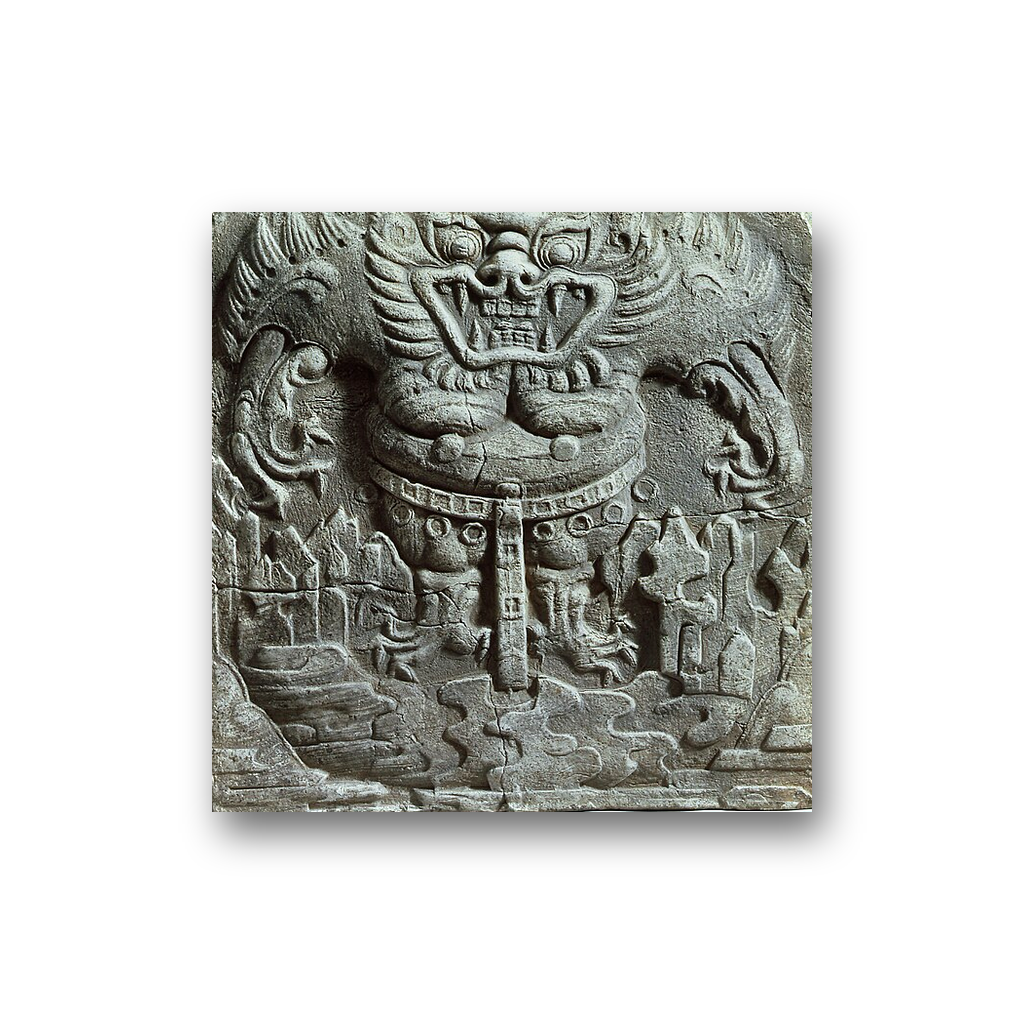
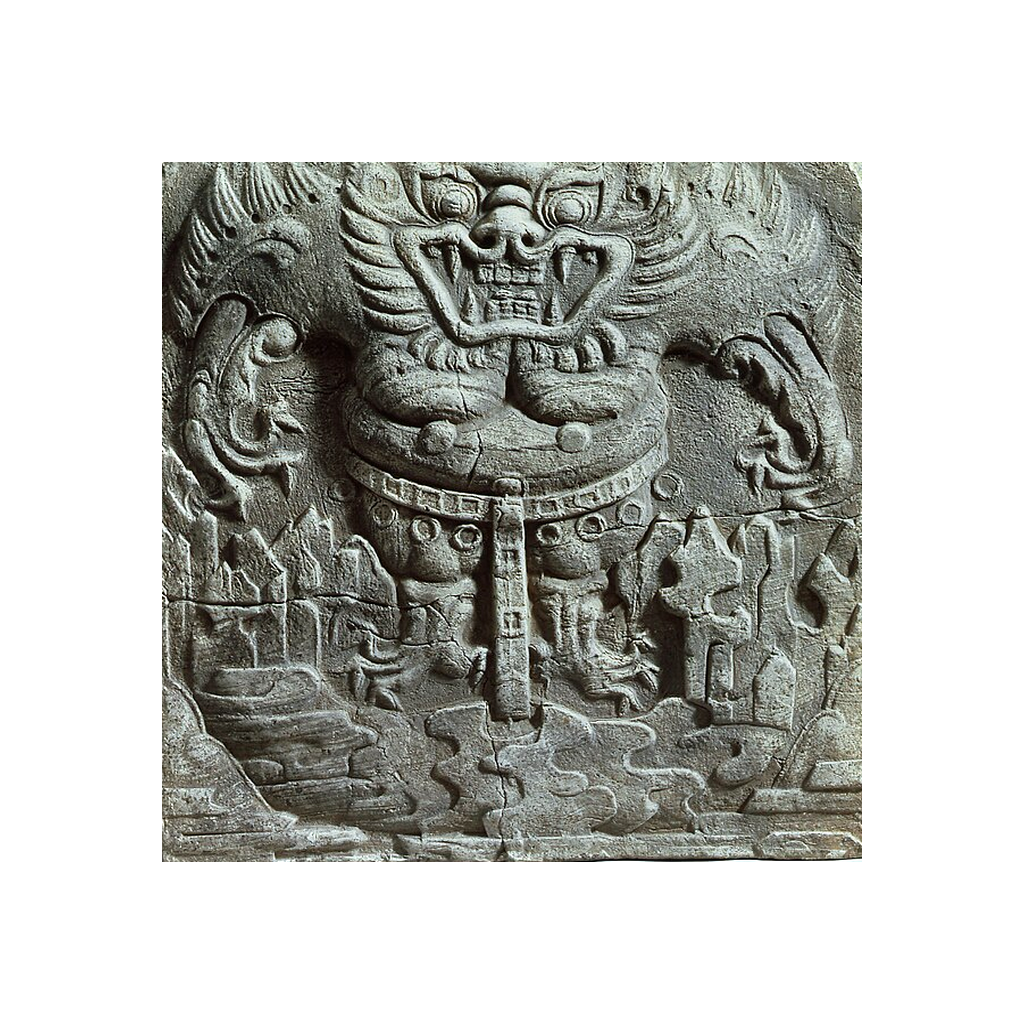
아이콘을 벽돌 사진이 꽉 차게(구글 플레이·휴대폰), 방망이 세 번 두드리는 화면도 벽돌 사진 크게 + 나무 방망이로
Claude-Session: https://claude.ai/code/session_0119NABoGFoS9fwAJJmie3D3

diff --git a/www/css/extra.css b/www/css/extra.css
@@ -153,9 +153,9 @@ body:not(.pro) .bnav button[data-v=il]{display:none!important}
 #ttak.on{opacity:1}
 .tkIn{position:relative;text-align:center;color:#fff;padding:20px;width:100%;max-width:400px}
 .tkH{font-size:24px;margin:0 0 14px}.tkH b{color:#ffd34d}
-.tkBtn{position:relative;width:230px;height:230px;border-radius:50%;background:radial-gradient(circle,#ffe9a8,#ffb347 60%,#ff7a45);border:6px solid #fff3c4;box-shadow:0 0 40px rgba(255,200,80,.6);padding:0;margin:0 auto;display:block}
-.tkDk{width:130px;height:130px;position:absolute;left:28px;top:50px;border-radius:26px}.bangSvg{position:absolute;right:22px;top:26px;width:62px;height:150px;transform:rotate(28deg);transform-origin:50% 90%}
-.tkBtn.swing .bangSvg{animation:bang .3s ease}@keyframes bang{0%{transform:rotate(28deg)}40%{transform:rotate(-40deg)}100%{transform:rotate(28deg)}}
+.tkBtn{position:relative;width:250px;height:250px;border-radius:18px;background:#2a2320;border:3px solid #8a7a5c;box-shadow:0 0 0 6px rgba(138,122,92,.25),0 18px 40px rgba(0,0,0,.7),0 0 60px rgba(255,214,120,.18);padding:0;margin:0 auto;display:block;overflow:visible}
+.tkDk{width:100%;height:100%;position:absolute;left:0;top:0;border-radius:15px;object-fit:cover;filter:contrast(1.05)}.bangSvg{position:absolute;right:-18px;top:-62px;width:70px;height:175px;transform:rotate(30deg);transform-origin:50% 92%;filter:drop-shadow(0 8px 10px rgba(0,0,0,.6))}
+.tkBtn.swing .bangSvg{animation:bang .3s ease}@keyframes bang{0%{transform:rotate(30deg)}40%{transform:rotate(-35deg)}100%{transform:rotate(30deg)}}
 .tkDots{display:flex;gap:12px;justify-content:center;margin:18px 0 6px}.tkDots i{width:18px;height:18px;border-radius:50%;background:rgba(255,255,255,.3)}.tkDots i.on{background:#ffd34d;box-shadow:0 0 10px #ffd34d}
 .tkSay{font-size:26px;font-weight:800;color:#ffd34d;margin:6px 0 16px}
 .tkSkip{background:transparent!important;color:#ddd!important;box-shadow:none!important;border:0;font-size:15px;text-decoration:underline}
@@ -253,3 +253,6 @@ body.jiOpen{overflow:hidden}body.jiOpen #homeBtn,body.jiOpen .bnav{display:none!
 .calP{margin:4px 0 10px}.calBtn{display:inline-block;padding:10px 14px;border-radius:12px;background:#e8f0ff;color:#2a4fb8;font-weight:800;text-decoration:none;font-size:16px}
 .jobL{padding:10px 12px;border-radius:12px;background:#f4f0ff;margin:6px 0!important}.jobL b{color:var(--purple)}
 .mrW{margin:10px 0;padding:12px 14px;border-radius:14px;background:#f4f0ff}.mrW p{margin:6px 0!important}
+
+.tkBtn.swing{animation:tkShake .3s ease}@keyframes tkShake{0%,100%{transform:none}35%{transform:translate(2px,3px) scale(.985)}}
+#ttak.done .tkBtn{box-shadow:0 0 0 6px rgba(255,214,120,.5),0 0 80px rgba(255,214,120,.55)}

diff --git a/www/js/05-app.js b/www/js/05-app.js
@@ -2521,7 +2521,7 @@ const ttak=(()=>{let ac=null;const A=()=>{try{ac=ac||new (window.AudioContext||w
   const buzz=ms=>{try{navigator.vibrate&&navigator.vibrate(ms);}catch(e){}};
   const hit=()=>{tone(150,0,0.18,'sine',0.7);tone(900,0,0.05,'square',0.08);buzz(40);};
   const chime=()=>{[784,988,1175,1568].forEach((f,i)=>tone(f,i*0.09,0.35,'triangle',0.18));buzz([30,40,30]);};
-  const BANG='<svg viewBox="0 0 70 170" class="bangSvg" aria-hidden="true"><rect x="29" y="104" width="12" height="62" rx="6" fill="#7a4a1f"/><path d="M14 26 Q35 -2 56 26 L50 108 Q35 118 20 108Z" fill="#c0702e" stroke="#5a3210" stroke-width="4"/><g fill="#ffd34d" stroke="#8a5a10" stroke-width="2"><circle cx="26" cy="40" r="6"/><circle cx="44" cy="40" r="6"/><circle cx="35" cy="62" r="6"/><circle cx="25" cy="84" r="5"/><circle cx="45" cy="84" r="5"/></g></svg>';
+  const BANG='<svg viewBox="0 0 80 200" class="bangSvg" aria-hidden="true"><defs><linearGradient id="bw" x1="0" x2="1"><stop offset="0" stop-color="#3a2414"/><stop offset=".45" stop-color="#7a5232"/><stop offset="1" stop-color="#2e1b0e"/></linearGradient><radialGradient id="bi" cx="35%" cy="30%"><stop offset="0" stop-color="#cfcabf"/><stop offset="1" stop-color="#4a463f"/></radialGradient></defs><rect x="33" y="118" width="14" height="78" rx="6" fill="url(#bw)"/><path d="M33 128 h14 M33 140 h14" stroke="#1d120a" stroke-width="3"/><path d="M14 34 Q40 -4 66 34 L58 124 Q40 134 22 124 Z" fill="url(#bw)" stroke="#1d120a" stroke-width="3"/><path d="M28 40 Q32 80 30 118 M50 40 Q47 80 50 118" stroke="#2a180b" stroke-width="1.5" fill="none" opacity=".6"/><g fill="url(#bi)" stroke="#2b2824" stroke-width="1.5"><circle cx="30" cy="48" r="6"/><circle cx="50" cy="48" r="6"/><circle cx="40" cy="72" r="6"/><circle cx="28" cy="96" r="5.5"/><circle cx="52" cy="96" r="5.5"/><circle cx="40" cy="116" r="5"/></g></svg>';
   let ov=null,n=0,lastKey='';
   function open(){if(ov)ov.remove();n=0;ov=document.createElement('div');ov.id='ttak';
     ov.innerHTML='<div class="tkIn"><p class="tkH">방망이를 <b>세 번</b> 두드리게!</p><button type="button" class="tkBtn" aria-label="방망이 두드리기"><img src="img/dokkaebi.jpg" alt="" class="tkDk">'+BANG+'</button><p class="tkDots"><i></i><i></i><i></i></p><p class="tkSay">금 나와라 뚝딱!</p><button type="button" class="tkSkip">건너뛰기</button></div>';

diff --git a/CLAUDE.md b/CLAUDE.md
@@ -4,7 +4,7 @@
 
 ## 구조
 - `www/index.html` 화면 뼈대, `www/css/app.css` 스타일, `www/css/extra.css` 새 화면 조각(첫 화면 카드·그림·방망이 달·큰 시간 글씨)을 처음 분홍·보라 스타일에 맞춘 것, `www/fonts/` 프리텐다드 글꼴(SIL OFL, 앱에 넣어 둠 — 전체 글씨는 이 글꼴, 한자 칸만 명조), `www/img/art/` 김홍도 풍속화 삽화(공공 저작물, `ART`/`artFig` in 05-app.js)
-- 도깨비 그림·앱 아이콘: 백제 「부여 외리 문양전」 산수귀문전(도깨비무늬 벽돌) 실물 사진(국립중앙박물관, 공공누리 제1유형=출처표시 필수) → `www/img/dokkaebi.jpg`(앱 안 모든 도깨비·제목 로고), `assets/icon-*.png`·`splash*.png`(앱 아이콘·시작 화면), `store/icon_512.png`·`feature_graphic.png`. 출처 한 줄은 질문 목록 아래 안내(`.qaNote`). 시안·출처 메모 `promo/dokkaebi-전통/`. `assets/build_icons.py`는 옛 기와 도깨비 그림을 다시 만드니 쓰지 말 것
+- 도깨비 그림·앱 아이콘: 백제 「부여 외리 문양전」 산수귀문전(도깨비무늬 벽돌) 실물 사진(국립중앙박물관, 공공누리 제1유형=출처표시 필수) → `www/img/dokkaebi.jpg`(앱 안 모든 도깨비·제목 로고), `assets/icon-*.png`·`splash*.png`(앱 아이콘·시작 화면), `store/icon_512.png`·`feature_graphic.png`. 출처 한 줄은 질문 목록 아래 안내(`.qaNote`). 아이콘은 벽돌이 꽉 차게(적응형 아이콘은 가운데 700px 벽돌 + 바깥은 같은 벽돌 흐림), 방망이 세 번 두드리는 화면도 벽돌 사진 크게 + 나무 방망이(쇠못). 시안·출처 메모 `promo/dokkaebi-전통/`. `assets/build_icons.py`는 옛 기와 도깨비 그림을 다시 만드니 쓰지 말 것
 - `www/js/01-lunar.js` 만세력 라이브러리(lunar-javascript, 수정 금지)
 - `www/js/02-gimun.js` **명국 계산**(국·홍국수·연국·태을·생기복덕·대운 나이·12운성) — `Gimun.calc` (칸 신살 `salE`/`salH` 포함)
 - `www/js/03-haeseok.js` **풀이**(왕쇠·용신·진용·합 순열·살·원국비기·신수·일진) — `Haeseok.*`
